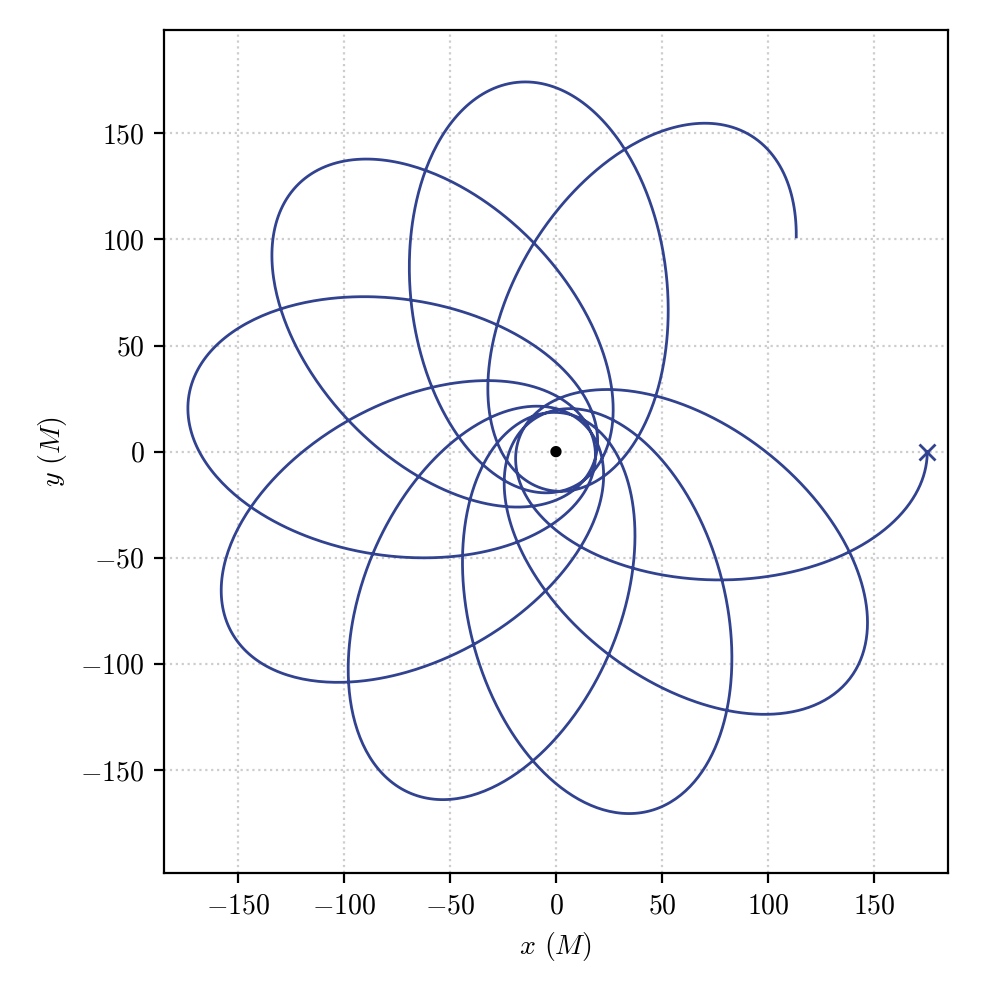
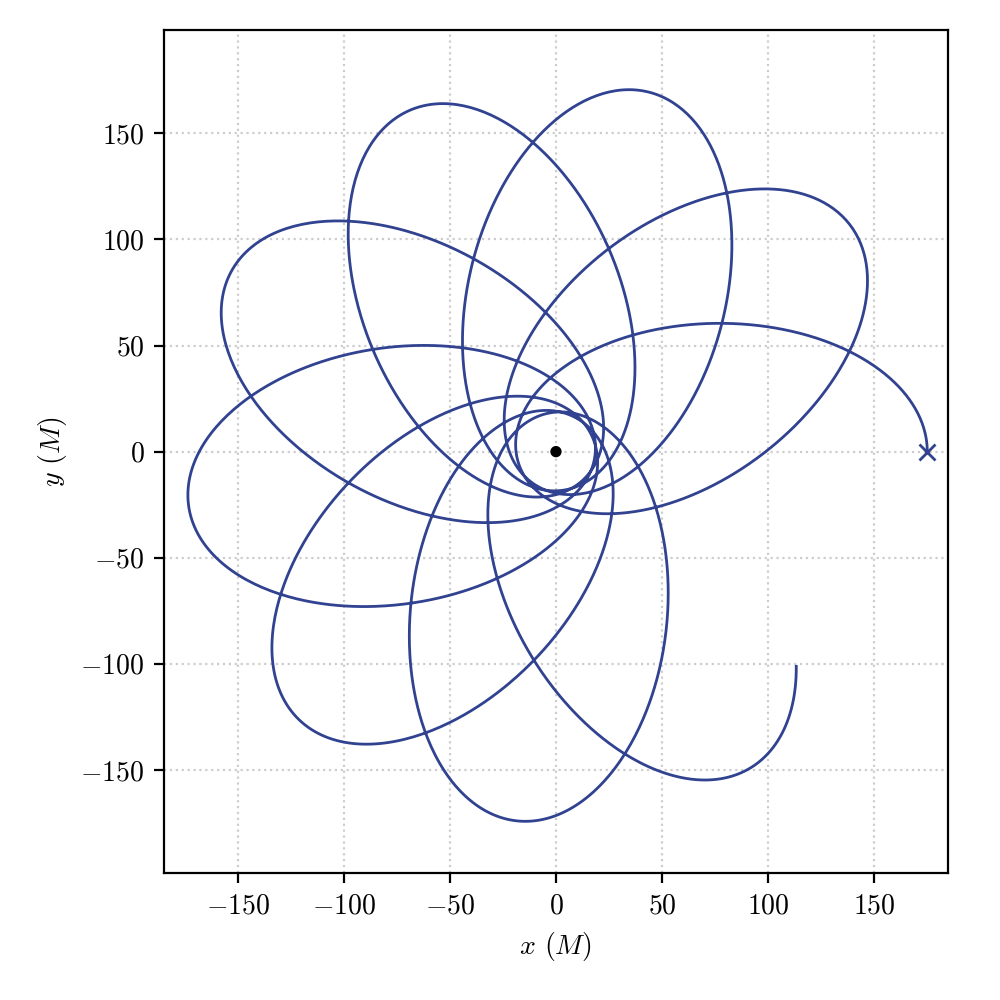
Update arxiv reference

diff --git a/pygro/integrators.py b/pygro/integrators.py
@@ -1,7 +1,8 @@
 import numpy as np
 from typing import Literal, Optional, Tuple, Callable, Optional
+from pygro.interpolators import Interpolator, LinearInterpolator, DP54DenseOutput, HermiteCubicInterpolator, DP853DenseOutput
 
-AVAILABLE_INTEGRATORS = Literal['rkf45', 'dp45', 'ck45', 'rkf78']
+AVAILABLE_INTEGRATORS = Literal['rkf45', 'dp45', 'ck45', 'rkf78', 'dp853']
 
 class IntegrationError(Exception):
     def __init__(self, message):
@@ -11,23 +12,25 @@ class Integrator:
     """
         Base class for ODE integrator.
     """
+    interpolator_class = LinearInterpolator
+    
     def __init__(self, function: Callable, stopping_criterion: Optional[Callable] = lambda x: True):
         
         if not callable(function):
             raise TypeError("'function' must be a callable object.")
         if not callable(stopping_criterion):
-            raise TypeError("'function' must be a callable object.")
+            raise TypeError("'stopping_criterion' must be a callable object.")
         
         self.f = function
         self.stopping_criterion = stopping_criterion
         
     def next_step(self, x: float, y: np.ndarray, h: float) -> Tuple[float, np.ndarray, float]:
-        raise NotImplementedError("next_step is not implemented")
+        raise NotImplementedError
     
-    def integrate(self, x_start: float, x_end: float, y_start: np.array, initial_step: float) -> Tuple[np.ndarray, np.ndarray, str]:
+    def integrate(self, x_start: float, x_end: float, y_start: np.array, initial_step: float) -> Tuple[np.ndarray, np.ndarray, str, Interpolator]:
         x = [x_start]
         y = [y_start]
-
+        k = []
         h = initial_step
         
         exit = "failed"
@@ -37,13 +40,20 @@ class Integrator:
             x.append(next[0])
             y.append(next[1])
             h = next[2]
+            k.append(next[3])
 
             if not self.stopping_criterion(*y[-1]):
                 exit = self.stopping_criterion.exit
             else:
                 exit = "done"
         
-        return np.array(x), np.array(y), exit
+        next = self.next_step(x[-1], y[-1], h, x_end)
+        k.append([self.f(next[0], next[1])])
+        
+        x = np.array(x)
+        y = np.array(y)
+        
+        return x, y, exit, self.interpolator_class(x, y, k)
 
 class ExplicitAdaptiveRungeKuttaIntegrator(Integrator):
     r"""
@@ -78,6 +88,7 @@ class ExplicitAdaptiveRungeKuttaIntegrator(Integrator):
         :param max_iter: maxium namber of step-size adaptation attempts before rising an error. If this error is reached, try to use smaller ``accuracy_goal`` and/or ``precision_goal`` or to reduce the initial step size of the integration (``initial_step`` in the :py:meth:`~pygro.geodesic_engine.GeodesicEngine.integrate` method).
         :type max_iter: int
     """
+    interpolator_class = HermiteCubicInterpolator
     
     def __init__(self, function: Callable, stopping_criterion: Callable, order: int, stages: int, accuracy_goal: Optional[int] = 10, precision_goal: Optional[int] = 10, safety_factor: Optional[float] = 0.9, hmax: Optional[float] = 1e+16, hmin: Optional[float] = 1e-16, max_iter: int = 1000):
         
@@ -128,11 +139,11 @@ class ExplicitAdaptiveRungeKuttaIntegrator(Integrator):
             for i in range(self.stages):
                 k[i] = self.f(x+self.c[i]*h1, y + h1*np.dot(k, self.a[i]))
             
-            y_lower = y + h1*np.dot(self.b[1], k)
-            y_higher = y + h1*np.dot(self.b[0], k)
+            y_propagation = y + h1*np.dot(self.b[1], k)
+            y_error = y + h1*np.dot(self.b[0], k)
             
-            v = np.linalg.norm(y_lower-y_higher)
-            w = self.atol+self.rtol*np.linalg.norm(np.maximum(y_lower, y_higher))
+            v = np.linalg.norm(y_propagation-y_error)
+            w = self.atol+self.rtol*np.linalg.norm(np.maximum(y_propagation, y_error))
 
             err = v/w
             
@@ -140,7 +151,6 @@ class ExplicitAdaptiveRungeKuttaIntegrator(Integrator):
 
             if err > 1:
                 # Reject step and try smaller step-size
-                
                 if j >= self.max_iter:
                     raise IntegrationError("Reached maximum number of step iterations. Check initial step size, integration tolerances or check for the presence of horizons.")
                 
@@ -166,9 +176,10 @@ class ExplicitAdaptiveRungeKuttaIntegrator(Integrator):
                     h2 = -max(min(abs(self.hmax), abs(h1)*K), abs(self.hmin))
                 break
             
-        return x1, y_lower, h2
+        return x1, y_propagation, h2, k
         
 class DormandPrince45(ExplicitAdaptiveRungeKuttaIntegrator):
+    interpolator_class = DP54DenseOutput
     def __init__(self, function: Callable, stopping_criterion: Callable, accuracy_goal: Optional[int] = 10, precision_goal: Optional[int] = 10, safety_factor: Optional[float] = 0.9, hmax: Optional[float] = 1e+16):
 
         self.a = np.array([
@@ -191,6 +202,37 @@ class DormandPrince45(ExplicitAdaptiveRungeKuttaIntegrator):
         ])
         
         super().__init__(function, stopping_criterion, 5, len(self.b[0]), accuracy_goal, precision_goal, safety_factor, hmax)
+
+class DormandPrince853(ExplicitAdaptiveRungeKuttaIntegrator):
+    interpolator_class = DP853DenseOutput
+    def __init__(self, function: Callable, stopping_criterion: Callable, accuracy_goal: Optional[int] = 10, precision_goal: Optional[int] = 10, safety_factor: Optional[float] = 0.9, hmax: Optional[float] = 1e+16):
+
+        self.a = np.array([
+            [0, 0, 0, 0, 0, 0, 0, 0, 0, 0, 0, 0, 0],
+            [1/18, 0, 0, 0, 0, 0, 0, 0, 0, 0, 0, 0, 0],
+            [1/48, 1/16, 0, 0, 0, 0, 0, 0, 0, 0, 0, 0, 0],
+            [1/32, 0, 3/32, 0, 0, 0, 0, 0, 0, 0, 0, 0, 0],
+            [5/16, 0, -75/64, 75/64, 0, 0, 0, 0, 0, 0, 0, 0, 0],
+            [3/80, 0, 0, 3/16, 3/20, 0, 0, 0, 0, 0, 0, 0, 0],
+            [29443841/614563906, 0, 0, 77736538/692538347, -28693883/1125000000, 23124283/1800000000, 0, 0, 0, 0, 0, 0, 0],
+            [16016141/946692911, 0, 0, 61564180/158732637, 22789713/633445777, 545815736/2771057229, -180193667/1043307555, 0, 0, 0, 0, 0, 0],
+            [39632708/573591083, 0, 0, -433636366/683701615, -421739975/2616292301, 100302831/723423059, 790204164/839813087, 800635310/3783071287, 0, 0, 0, 0, 0],
+            [246121993/1340847787, 0, 0, -37695042795/15268766246, -309121744/1061227803, -12992083/490766935, 6005943493/2108947869, 393006217/1396673457, 123872331/1001029789, 0, 0, 0, 0],
+            [-1028468189/846180014, 0, 0, 8478235783/508512852, 1311729495/1432422823, -10304129995/1701304382, -48777925059/3047939560, 15336726248/1032824649, -45442868181/3398467696, 3065993473/597172653, 0, 0, 0],
+            [185892177/718116043, 0, 0, -3185094517/667107341, -477755414/1098053517, -703635378/230739211, 5731566787/1027545527, 5232866602/850066563, -4093664535/808688257, 3962137247/1805957418, 65686358/487910083, 0, 0],
+            [13451932/455176623, 0, 0, 0, 0, -808719846/976000145, 1757004468/5645159321, 656045339/265891186, -3867574721/1518517206, 465885868/322736535, 53011238/667516719, 2/45, 0]
+        ])
+
+        self.b = np.array([
+            [14005451/335480064, 0, 0, 0, 0, -59238493/1068277825, 181606767/758867731, 561292985/797845732, -1041891430/1371343529, 760417239/1151165299, 118820643/751138087, -528747749/2220607170, 1/4],
+            [13451932/455176623, 0, 0, 0, 0, -808719846/976000145, 1757004468/5645159321, 656045339/265891186, -3867574721/1518517206, 465885868/322736535, 53011238/667516719, 2/45, 0]
+        ])
+
+        self.c = np.array([
+            0, 1/18, 1/12, 1/8, 5/16, 3/8, 59/400, 93/200, 5490023248/9719169821, 13/20, 1201146811/1299019798, 1, 1
+        ])
+
+        super().__init__(function, stopping_criterion, 8, len(self.b[0]), accuracy_goal, precision_goal, safety_factor, hmax)
 
 class RungeKuttaFehlberg45(ExplicitAdaptiveRungeKuttaIntegrator):
     def __init__(self, function: Callable, stopping_criterion: Callable, accuracy_goal: Optional[int] = 10, precision_goal: Optional[int] = 10, safety_factor: Optional[float] = 0.9, hmax: Optional[float] = 1e+16):
@@ -418,6 +460,8 @@ def get_integrator(integrator: AVAILABLE_INTEGRATORS, *args, **kwargs) -> Integr
         return RungeKuttaFehlberg45(*args, **kwargs)
     if integrator == "dp45":
         return DormandPrince45(*args, **kwargs)
+    if integrator == "dp853":
+        return DormandPrince853(*args, **kwargs)
     if integrator == "ck45":
         return CashKarp45(*args, **kwargs)
     if integrator == "rkf78":

diff --git a/pygro/interpolators.py b/pygro/interpolators.py
@@ -1,0 +1,118 @@
+import numpy as np
+from collections.abc import Iterable
+
+class Interpolator:
+    """
+    Base class for interpolation methods.
+    
+    :param x: Array of x values.
+    :type x: np.ndarray
+    :param y: Array of y values.
+    :type y: np.ndarray
+    :param k: List of derivative arrays.
+    :type k: list[np.ndarray]
+    """
+    def __init__(self, x: np.ndarray, y: np.ndarray, k: list[np.ndarray]):
+        self.x = x
+        self.y = y
+        self.k = k
+        
+    def _compute_interpolation(self, x: float) -> np.ndarray:
+        """
+        Compute the interpolated value at a given x.
+        
+        :param x: Point at which to evaluate the interpolation.
+        :type x: float
+        :raises NotImplementedError: Must be implemented in subclasses.
+        """
+        raise NotImplementedError
+    
+    def _interpolate(self, x: float) -> np.ndarray:
+        """
+        Interpolate a value within the defined range.
+        
+        :param x: Point at which to interpolate.
+        :type x: float
+        :raises ValueError: If x is outside the integration range.
+        :return: Interpolated value.
+        :rtype: np.ndarray
+        """
+        if not min(self.x) <= x <= max(self.x):
+            raise ValueError(f"Provided value ({x}) is outside the integration range [{min(self.x)}, {max(self.x)}].")
+        
+        if x == self.x[0]:
+            return self.y[0]
+        
+        if x == self.x[-1]:
+            return self.y[-1]
+        
+        return self._compute_interpolation(x)
+    
+    def __call__(self, x: float) -> float | np.ndarray:
+        """
+        Evaluate the interpolator at a given x.
+        
+        :param x: Point or array of points at which to evaluate.
+        :type x: float or Iterable
+        :return: Interpolated value(s).
+        :rtype: float | np.ndarray
+        """
+        if isinstance(x, Iterable):
+            return np.array([self._interpolate(x_i) for x_i in x])
+        return np.array([self._interpolate(x)])
+    
+class LinearInterpolator(Interpolator):
+    """
+    Placeholder for a linear interpolation scheme. Currently not implemented.
+    """
+    pass
+
+class HermiteCubicInterpolator(Interpolator):
+    """
+    Implements Hermite cubic interpolation.
+    
+    This method ensures smooth interpolation by using derivative information.
+    """
+    def _compute_interpolation(self, x):
+        idx = np.searchsorted(self.x, x)-1
+        
+        x_0 = self.x[idx]
+        x_1 = self.x[idx+1]
+        y_0 = self.y[idx]
+        y_1 = self.y[idx+1]
+        h = x_1-x_0
+        k_0 = self.k[idx]
+        k_1 = self.k[idx+1]
+        
+        t = (x-x_0)/h
+        
+        return (1 - t) * y_0 + t * y_1 + t * (t - 1) * ((1 - 2 * t) * (y_1 - y_0) + (t - 1) * h * k_0[0] + t * h * k_1[0])
+    
+class DP54DenseOutput(Interpolator):
+    """
+    Dense output interpolator for the Dormand-Prince 5(4) method.
+    """
+    b = np.array([35/384, 0, 500/1113, 125/192, -2187/6784, 11/84, 0])
+        
+    def _compute_interpolation(self, x):
+        idx = np.searchsorted(self.x, x)-1
+        
+        x_0 = self.x[idx]
+        x_1 = self.x[idx+1]
+        y_0 = self.y[idx]
+        h = x_1-x_0 
+        k = self.k[idx]
+        
+        t = (x-x_0)/h
+        
+        b_0 = t**2 * (3 - 2*t) * self.b[0] + t * (t - 1)**2 - t**2 * (t - 1)**2 * 5 * (2558722523 - 31403016 * t) / 11282082432
+        b_1 = 0
+        b_2 = t**2 * (3 - 2*t) * self.b[2] + t**2 * (t - 1)**2 * 100 * (882725551 - 15701508 * t) / 32700410799
+        b_3 = t**2 * (3 - 2*t) * self.b[3] - t**2 * (t - 1)**2 * 25 * (443332067 - 31403016 * t) / 1880347072
+        b_4 = t**2 * (3 - 2*t) * self.b[4] + t**2 * (t - 1)**2 * 32805 * (23143187 - 3489224 * t) / 199316789632
+        b_5 = t**2 * (3 - 2*t) * self.b[5] - t**2 * (t - 1)**2 * 55 * (29972135 - 7076736 * t) / 822651844
+        b_6 = t**2 * (t - 1) + t**2 * (t - 1)**2 * 10 * (7414447 - 829305 * t)/29380423
+        
+        b = np.array([b_0, b_1, b_2, b_3, b_4, b_5, b_6])
+        
+        return y_0 + h*np.dot(b, k)

diff --git a/pygro/geodesic_engine.py b/pygro/geodesic_engine.py
@@ -182,7 +182,7 @@ class GeodesicEngine():
         if verbose:
             time_start = time.perf_counter()
 
-        tau, xu, exit = integrator.integrate(0, tauf, np.array([*geo.initial_x, *geo.initial_u]), h)
+        tau, xu, exit, interpolator = integrator.integrate(0, tauf, np.array([*geo.initial_x, *geo.initial_u]), h)
                 
         if verbose:
             time_elapsed = (time.perf_counter() - time_start)
@@ -192,6 +192,7 @@ class GeodesicEngine():
         geo.x = np.stack(xu[:,:4])
         geo.u = np.stack(xu[:,4:])
         geo.exit = exit
+        geo.interpolator = interpolator
 
 class StoppingCriterion:
     r"""

diff --git a/pygro/geodesic.py b/pygro/geodesic.py
@@ -68,9 +68,15 @@ class Geodesic():
     def x(self) -> np.ndarray:
         return self._x
     
+    def x_int(self, tau: float):
+        return self.interpolator(tau)[:,:4]
+    
     @property
     def u(self) -> np.ndarray:
         return self._u
+    
+    def u_int(self, tau: float):
+        return self.interpolator(tau)[:,4:]
     
     @property
     def tau(self) -> np.ndarray:

diff --git a/README.md b/README.md
@@ -3,9 +3,10 @@
 ![PyGRO](https://github.com/rdellamonica/pygro/blob/master/docs/source/_static/pygro-banner.png?raw=true#gh-light-mode-only)
 ![PyGRO](https://github.com/rdellamonica/pygro/blob/master/docs/source/_static/pygro-banner-dark.png?raw=true#gh-dark-mode-only)
 
-[<img src="https://img.shields.io/badge/pygro-v.1.0.1-blue">](https://github.com/rdellamonica/pygro)
+[<img src="https://img.shields.io/badge/pygro-v.1.0.2-blue">](https://github.com/rdellamonica/pygro)
 [<img src="https://img.shields.io/badge/docs-passing-green">](https://rdellamonica.github.io/pygro/index.html)
 [<img src="https://img.shields.io/badge/pypi-pygro-orange?link=">](https://pypi.org/project/PyGRO)
+[![arXiv](https://img.shields.io/badge/arXiv-2504.20152-red)](https://arxiv.org/abs/2504.20152)
 [![DOI](https://zenodo.org/badge/334275937.svg)](https://zenodo.org/badge/latestdoi/334275937)
 
 ![watchers](https://img.shields.io/github/watchers/rdellamonica/pygro) ![stars](https://img.shields.io/github/stars/rdellamonica/pygro)
@@ -16,9 +17,9 @@
 
 ## Installation
 
-PyGRO is distributed as a Python package that can be installed through the PyPi package mangaer via:
+PyGRO is distributed as a Python package that can be installed through the PyPi package manager via:
 
-```console
+```
 pip install pygro
 ```
 
@@ -27,6 +28,22 @@ or by cloning [PyGRO GitHub repository](https://github.com/rdellamonica/pygro).
 ## Documentation
 
 The complete documentation for PyGRO is available on [docs](https://rdellamonica.github.io/pygro/index.html).
+
+## Attribution
+
+If using PyGRO for your project please attribute it appropriately by citing the following reference:
+
+```
+@article{pygro2025,
+      title={PyGRO: a Python Integrator for General Relativistic Orbits},
+      author={Riccardo Della Monica},
+      year={2025},
+      eprint={2504.20152},
+      archivePrefix={arXiv},
+      primaryClass={gr-qc},
+      url={https://arxiv.org/abs/2504.20152},
+}
+```
 
 ## Copyright
 

diff --git a/docs/source/getting_started.rst b/docs/source/getting_started.rst
@@ -61,15 +61,14 @@ Please cite it properly attribute it in your works:
 
 .. code-block:: latex
 
-   @ARTICLE{PyGRO2025,
-         author = {{Della Monica}, Riccardo},
-          title = "{PyGRO: a Python integrator for General Relativistic Orbits}",
-        journal = {arXiv e-prints},
-       keywords = {General Relativity and Quantum Cosmology},
-           year = 2025,
-          month = feb,
-         eprint = {arxiv:2502.xxxx},
-   primaryClass = {gr-qc},
+   @article{pygro2025,
+         title={PyGRO: a Python Integrator for General Relativistic Orbits},
+         author={Riccardo Della Monica},
+         year={2025},
+         eprint={2504.20152},
+         archivePrefix={arXiv},
+         primaryClass={gr-qc},
+         url={https://arxiv.org/abs/2504.20152},
    }
 
    

diff --git a/docs/source/interpolators.rst b/docs/source/interpolators.rst
@@ -1,0 +1,9 @@
+Interpolators
+=============
+
+PyGRO implements several interpolation strategies for the integrated geodesic. The base interpolator class offers a way to compute the integrate geodesic at each value of the affine parameter on the integration interval. Whenever possible, :py:class:`~pygro.integrators.Integrator` classes implement dense output tailored to the order of the numerical integration involved in the scheme.
+
+When the dense output for the specific class is not available, it will fall back to cubic interpolation using Hermite polynomials which guarantees third-order accuracy for integrators of order :math:`p\geq3`. 
+
+.. automodule:: pygro.interpolators
+    :members:

diff --git a/docs/source/index.rst b/docs/source/index.rst
@@ -51,6 +51,7 @@ Finally we provide the users with a detailed API guide that offers support for a
    geodesic
    observer
    orbit
+   interpolators
    
 Indices and tables
 ------------------
